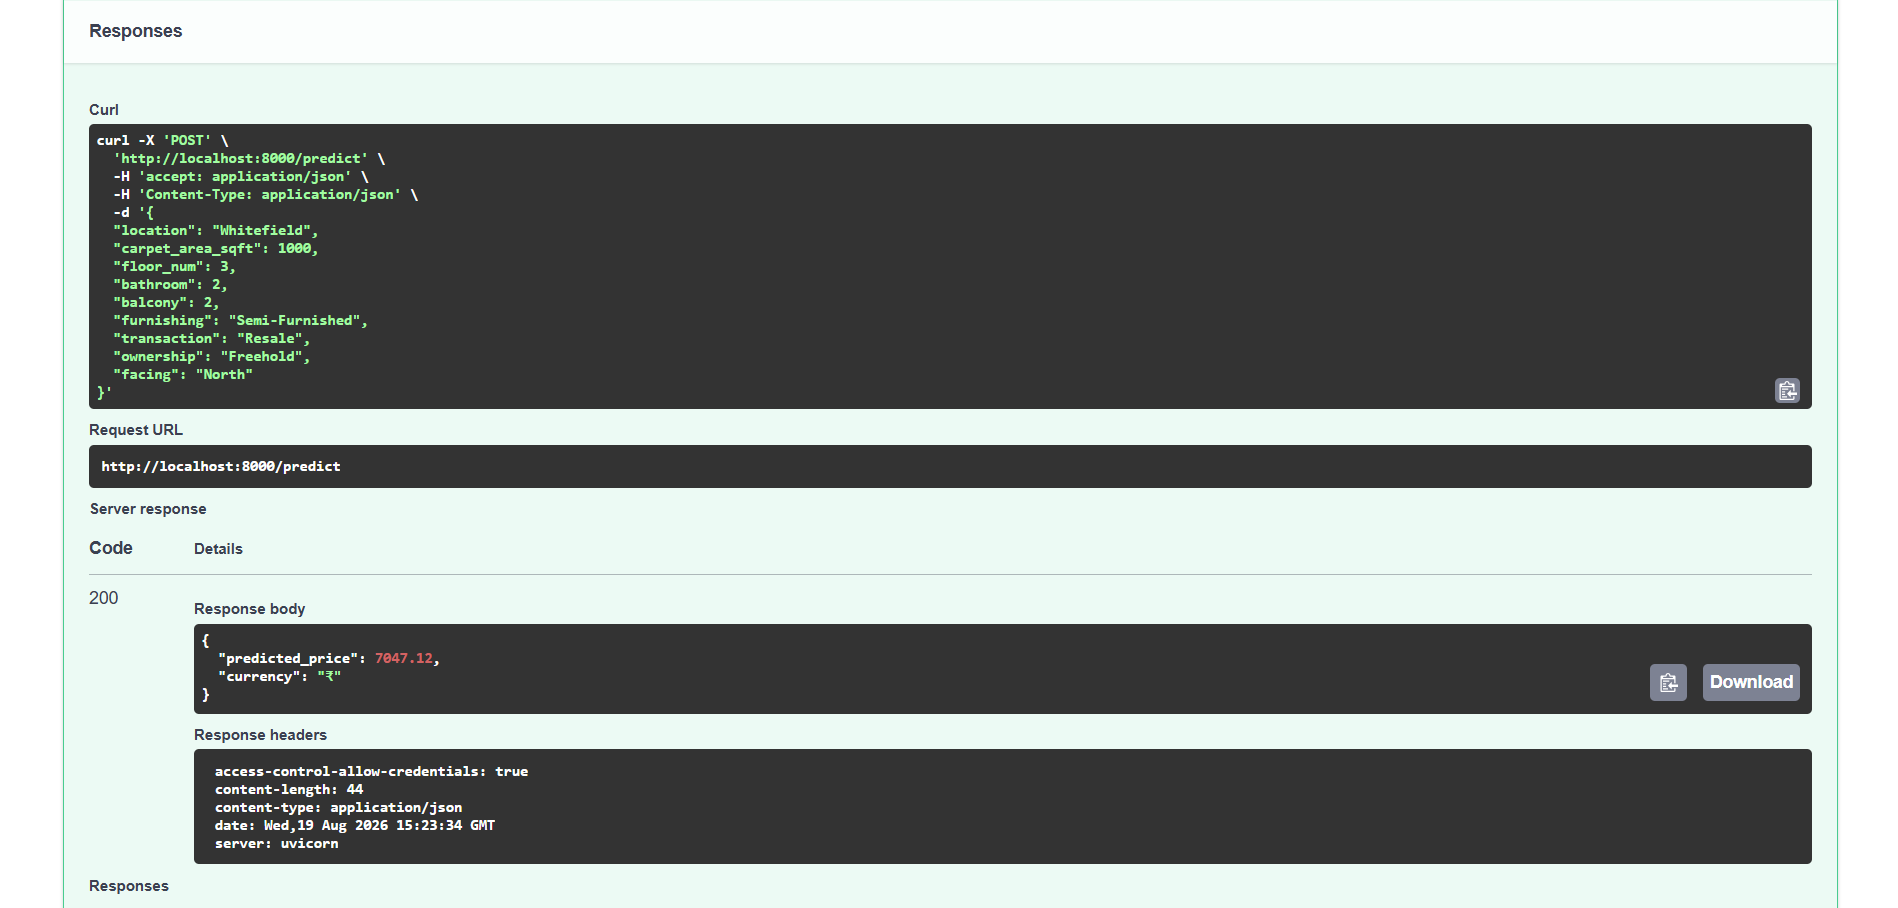
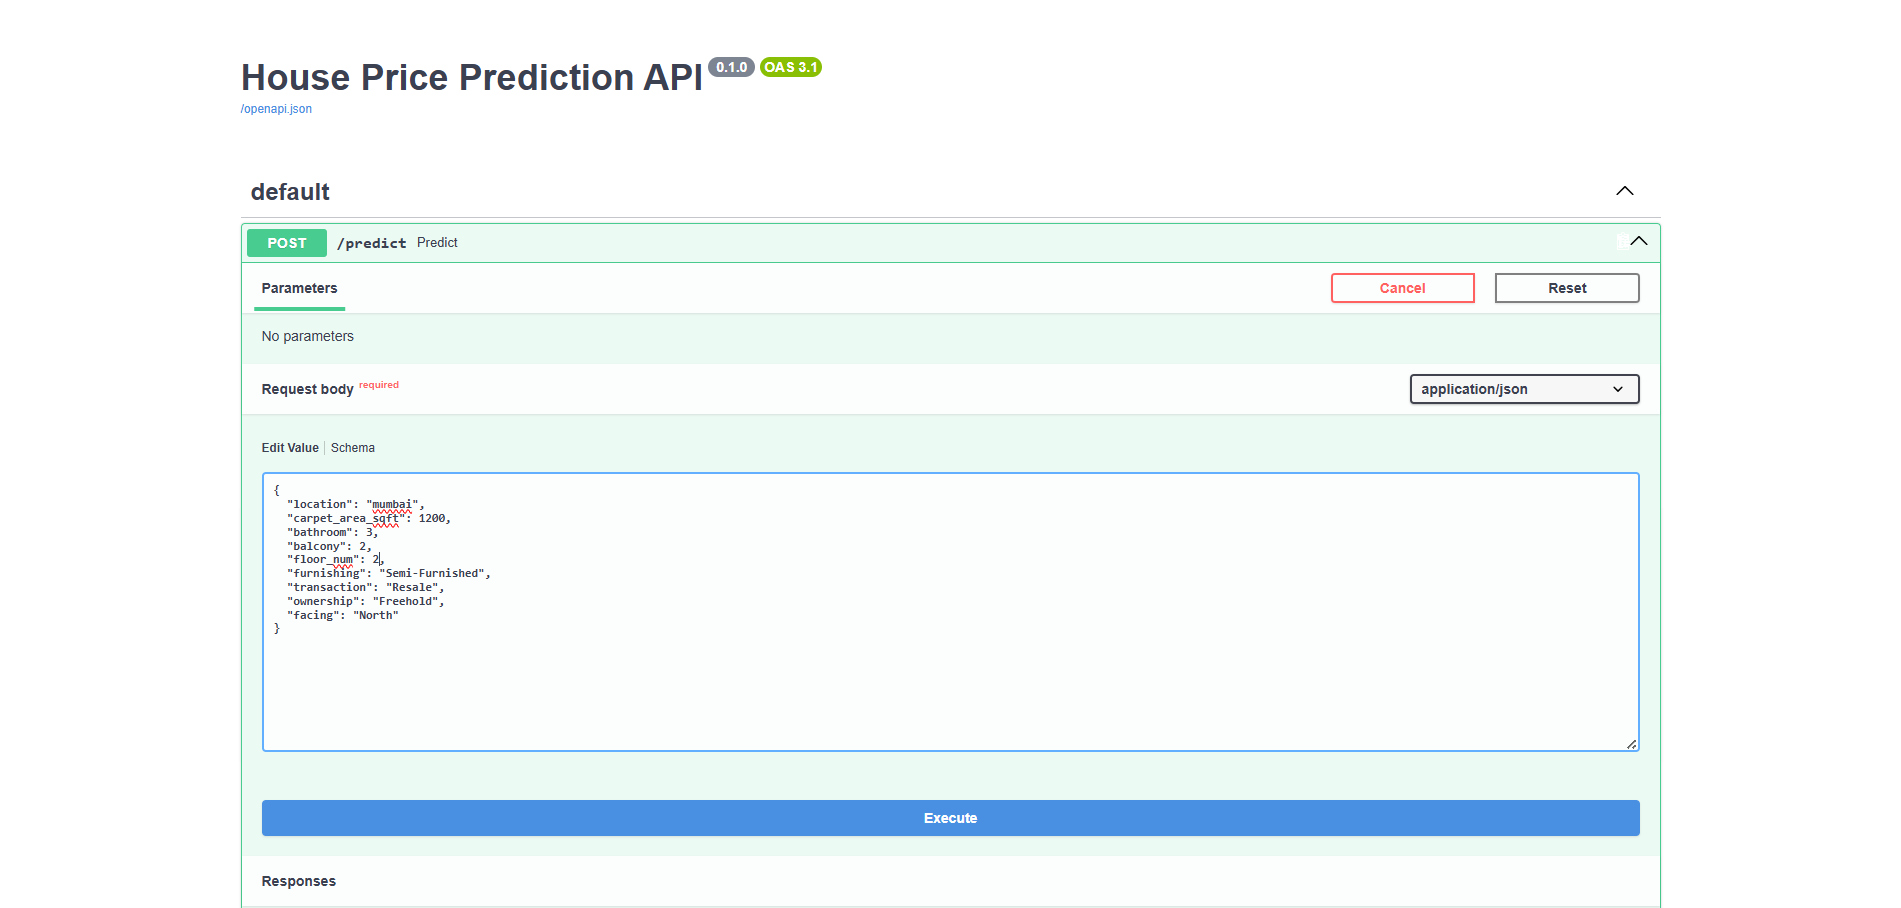
Update schema order, routes, and screenshots

diff --git a/backend/app/schemas/prediction.py b/backend/app/schemas/prediction.py
@@ -3,9 +3,9 @@ from pydantic import BaseModel
 class PredictionRequest(BaseModel):
     location: str
     carpet_area_sqft: float
-    floor_num: int
     bathroom: int
     balcony: int
+    floor_num: int
     furnishing: str     # "Furnished" | "Semi-Furnished" | "Unfurnished"
     transaction: str    # "New Property" | "Resale"
     ownership: str

diff --git a/backend/app/api/routes/prediction.py b/backend/app/api/routes/prediction.py
@@ -27,9 +27,9 @@ valid_locations = locations_dict["locations"]
 class PredictionRequest(BaseModel):
     location: str
     carpet_area_sqft: float
-    floor_num: int
     bathroom: int
     balcony: int
+    floor_num: int
     furnishing: str = "Semi-Furnished"
     transaction: str = "Resale"
     ownership: str = "Freehold"

diff --git a/README.md b/README.md
@@ -170,9 +170,9 @@ curl -X 'POST' `
   -d '{
   "location": "mumbai",
   "carpet_area_sqft": 1200,
+  "bathroom": 3,
+  "balcony": 2,
   "floor_num": 2,
-  "bathroom": 2,
-  "balcony": 1,
   "furnishing": "Semi-Furnished",
   "transaction": "Resale",
   "ownership": "Freehold",
